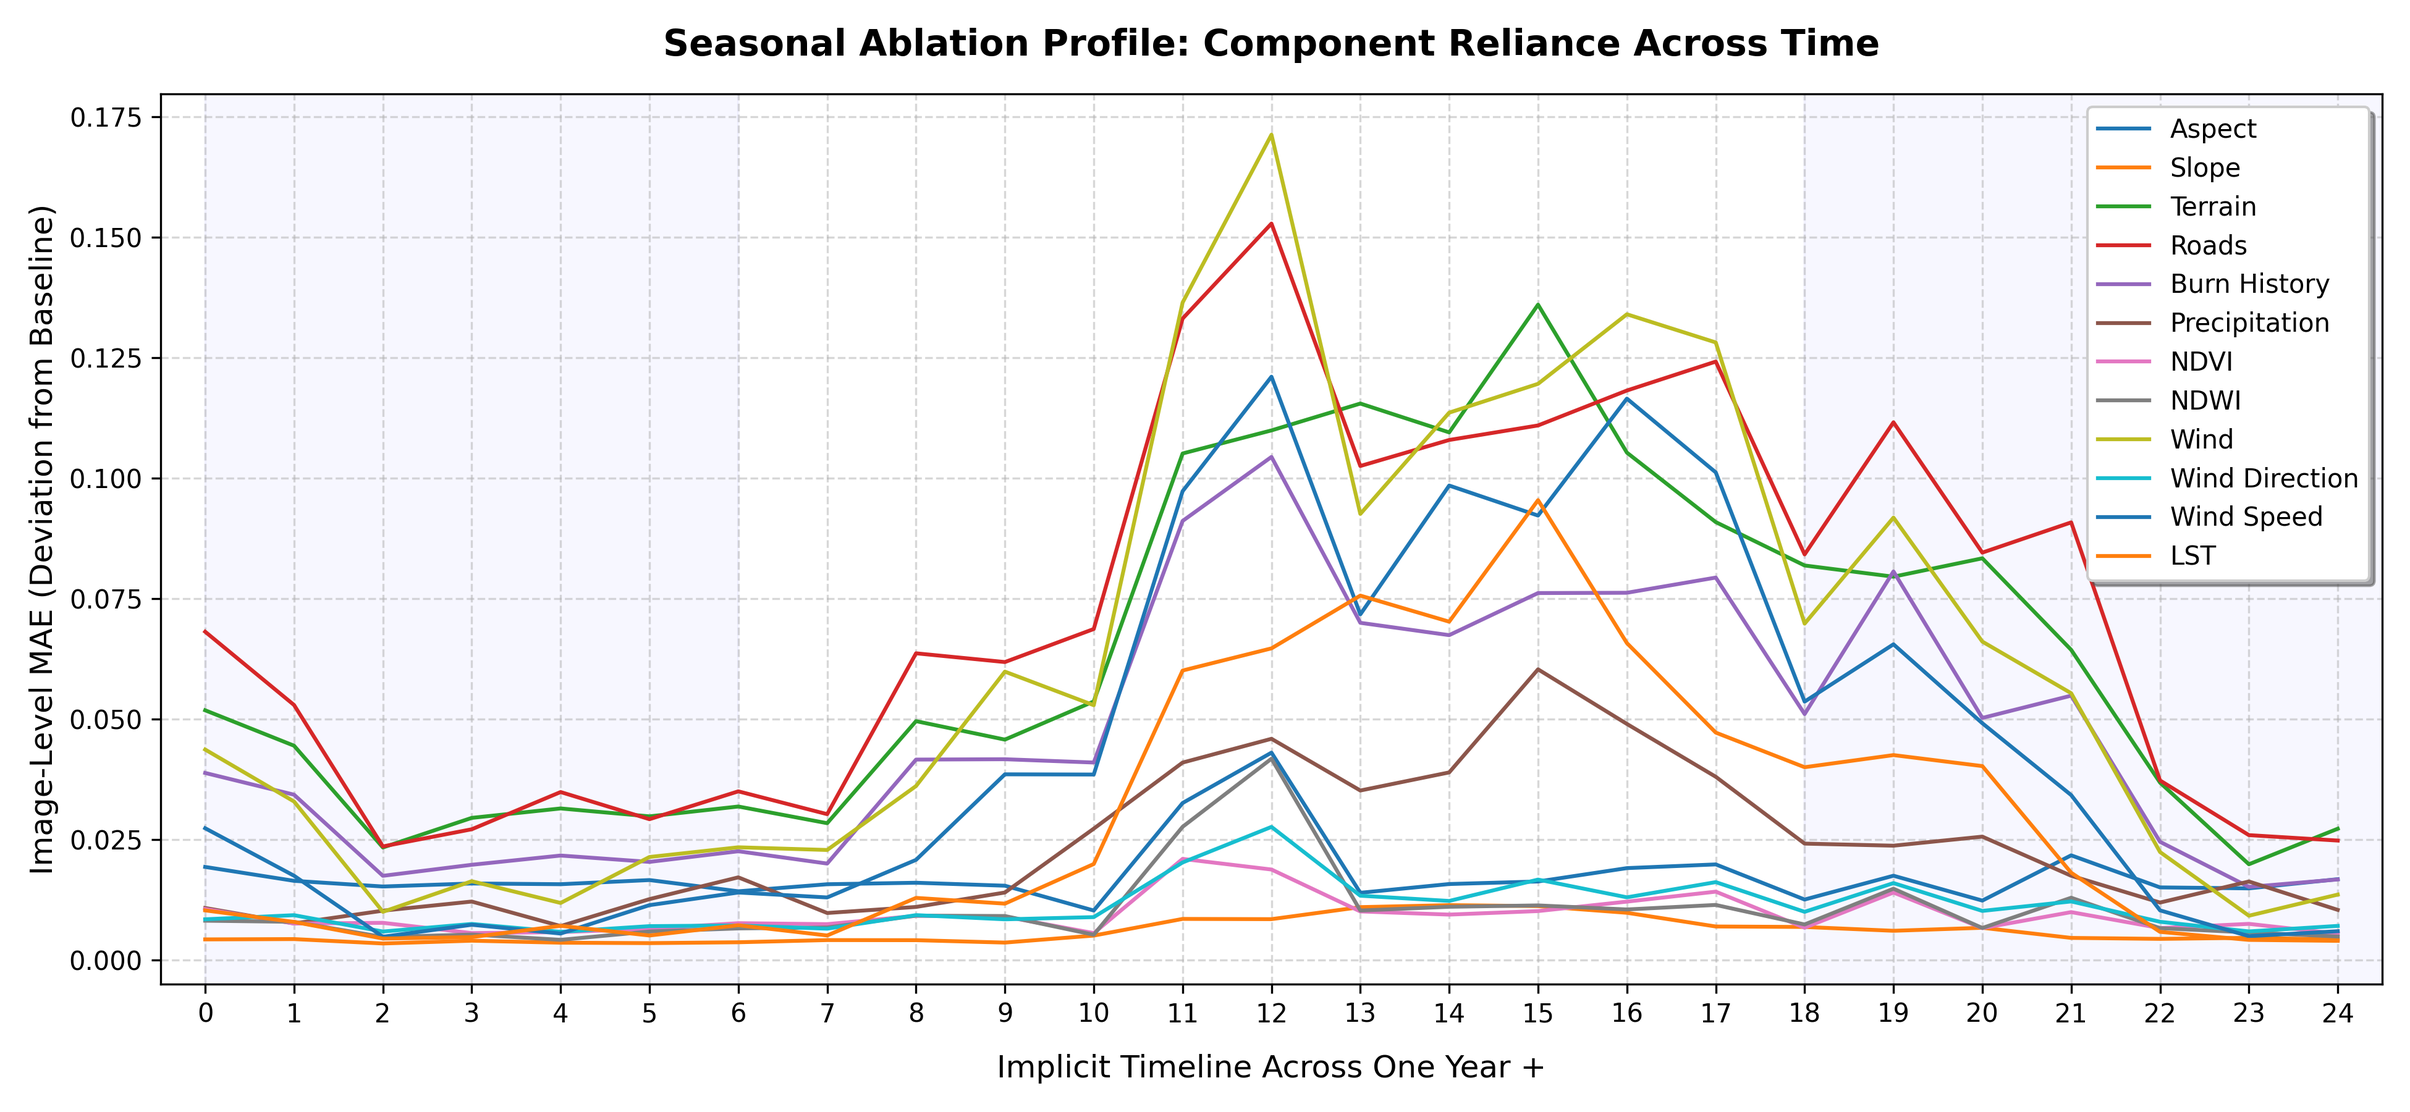
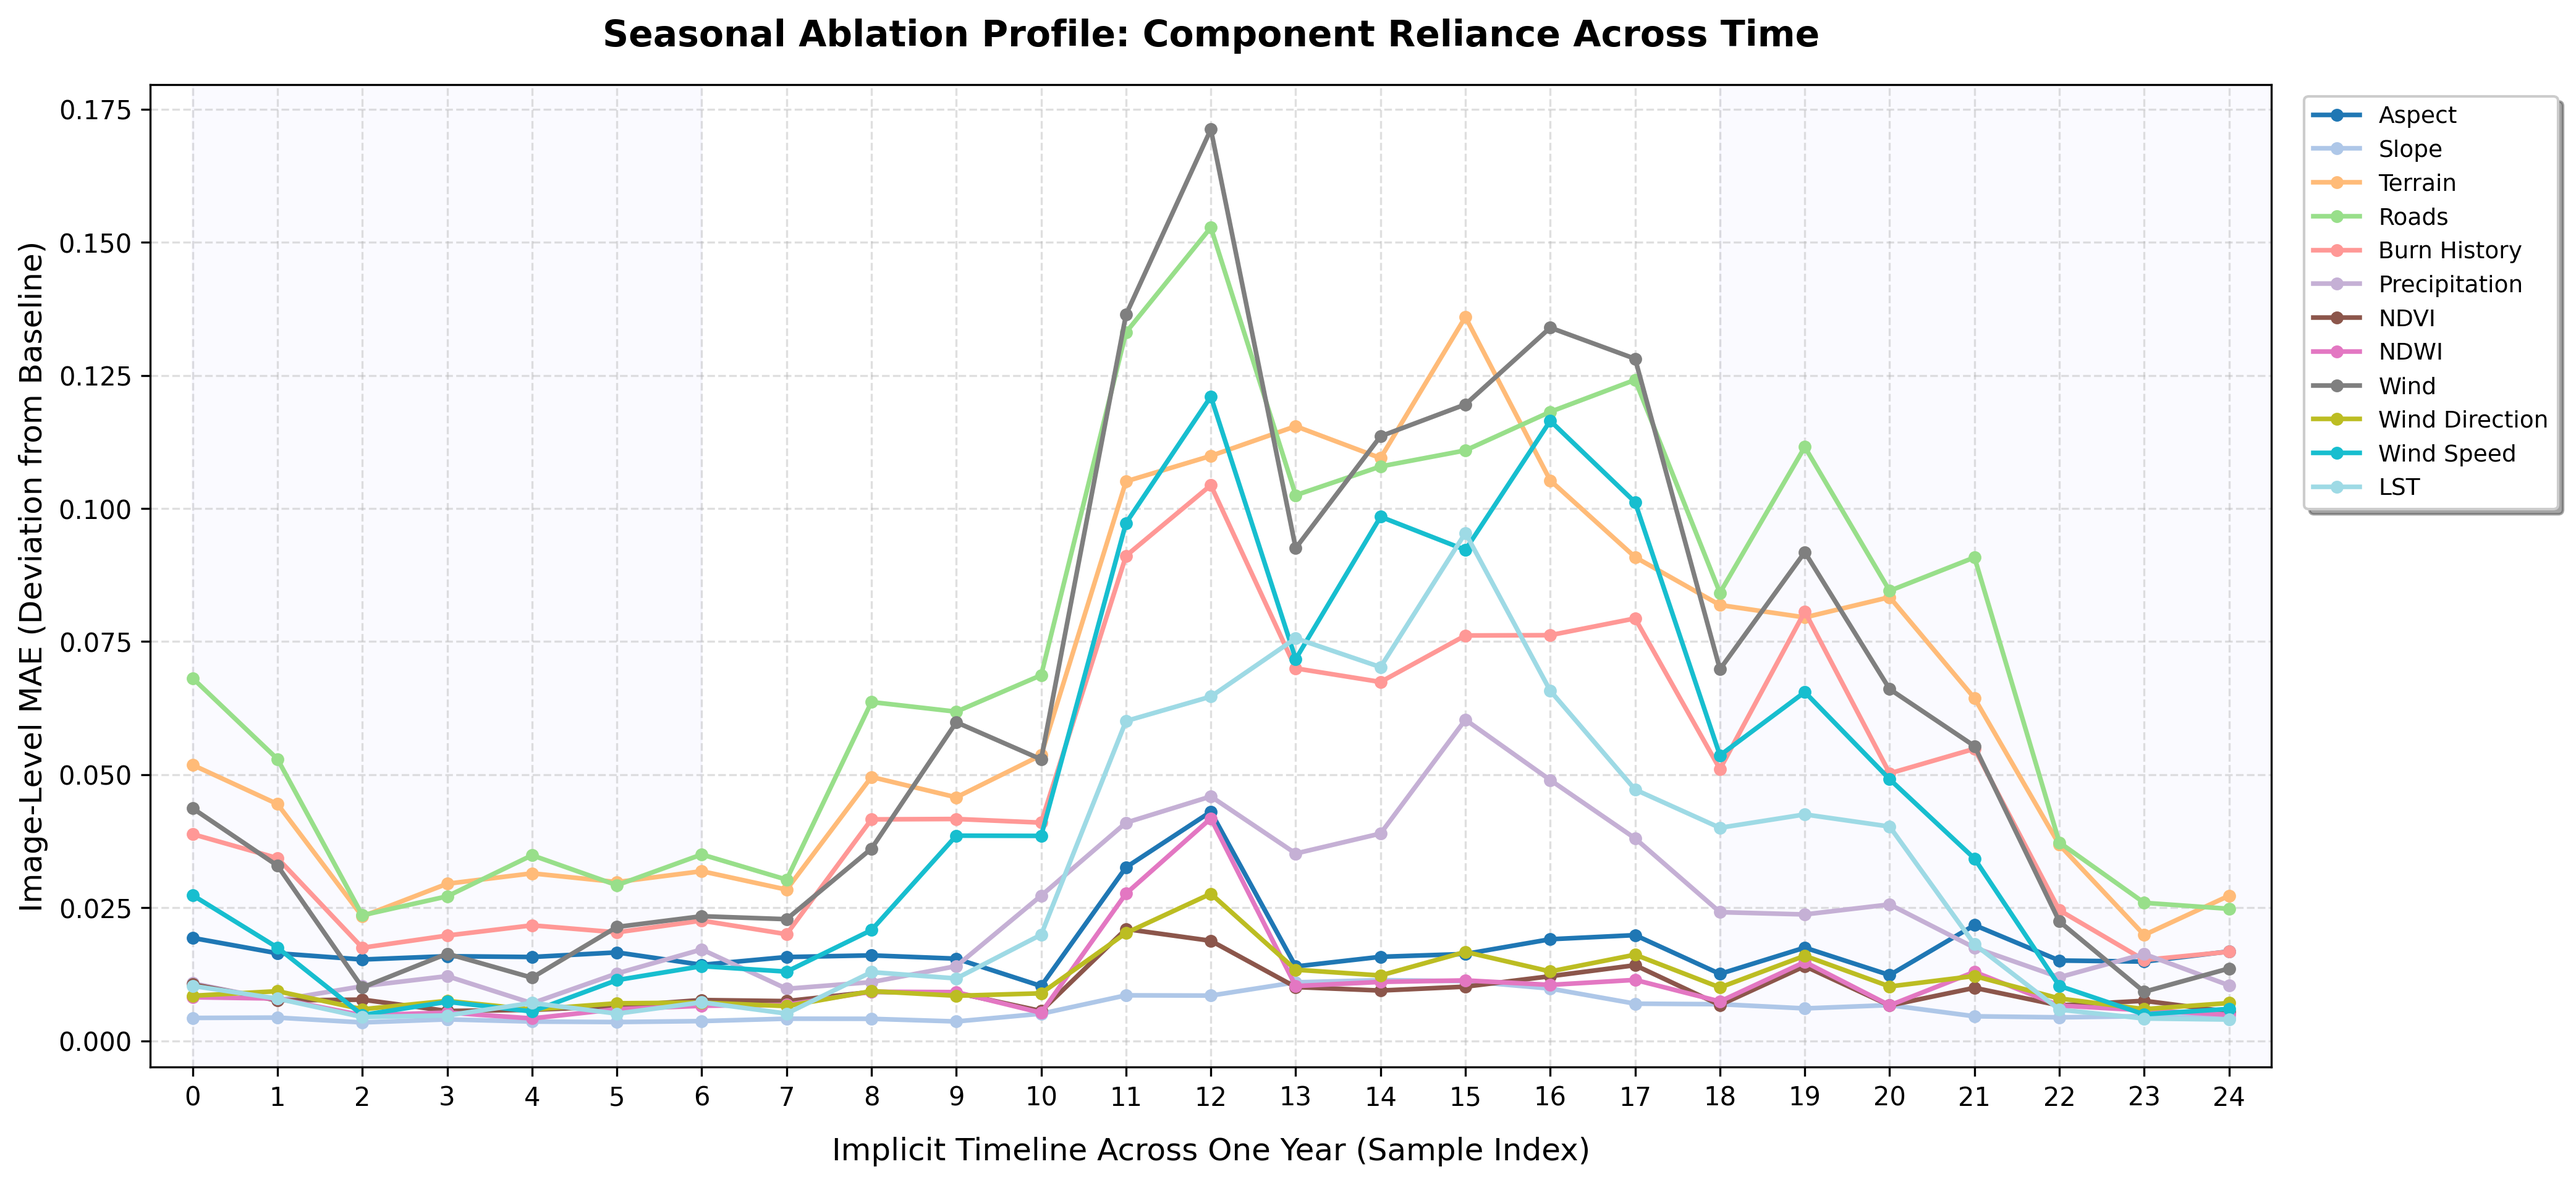
TSNE diagrams

diff --git a/exports/tsne/main.py b/exports/tsne/main.py
@@ -1,0 +1,310 @@
+"""
+Tracking vector
+"""
+
+# Internal
+from src.core.utils import load_config
+from src.models.vit.vit import STViT
+from scripts.dataset import SpatialTemporalDataset, skip_missing_collate_fn
+
+
+# External
+from sklearn.manifold import TSNE
+
+import torch
+import torch.nn as nn
+from torch.utils.data import DataLoader
+from pathlib import Path
+import torch.nn.functional as F
+from datetime import datetime
+import math
+import numpy as np
+import matplotlib.pyplot as plt
+
+# ----- CONFIG ----- #
+correction_logit = math.log(600)
+out_path = Path('exports', 'tsne')
+# ------------------ #
+
+# ---- Helper F ---- #
+def load_trained_model(cfg_model : nn.Module, cfg_data, model_path, device):
+    model = STViT(
+        num_dynamic_channels=cfg_model['num_dynamic_channels'],
+        num_static_channels=cfg_model['num_static_channels'] + cfg_model['num_single_dynamic_channels'],
+        num_timestamps_per_sample=cfg_data['temporal_extent']['sample_extent'],
+        patch_size=cfg_model['patch_size'],
+        embedding_dim=cfg_model['embedding_dim']
+    )
+    model.load_state_dict(torch.load(model_path, map_location=device))
+    return model.to(device)
+
+
+def evaluate_model_tsne(model, dataloader: DataLoader):
+    model.eval()
+
+    # This will hold a list of dictionaries, one for each timestamp
+    time_frames = []
+
+    with torch.no_grad():
+        for batch_idx, batch in enumerate(dataloader):
+            print(f'Processing test batch_idx {batch_idx + 1} / {len(dataloader)}')
+            if batch is None:
+                continue
+
+            static_x = batch['static'].to(device)
+            single_dynamic_x = batch['single_dynamic'].to(device)
+            dynamic_x = batch['dynamic'].to(device)
+            
+            # Read the timestamp for this specific frame
+            date_str = batch['meta_first_date'][0] 
+            date_obj = datetime.strptime(date_str, '%Y-%m-%d')
+
+            ## Predict
+            pred_map, x_2d = model(
+                x_static=static_x,
+                x_dynamic=dynamic_x,
+                x_single_dynamic=single_dynamic_x,
+                return_tokens = True
+            )
+
+            grid_h, grid_w = x_2d.shape[2], x_2d.shape[3]
+
+            # Adaptive pooling to match patch resolution
+            patch_preds = F.adaptive_avg_pool2d(pred_map, (grid_h, grid_w))
+            patch_probabilities = torch.sigmoid(patch_preds - correction_logit)
+
+            # --- PRESERVE STRUCTURES ---
+            # Keep both flattened (for t-SNE) and 2D spatial layouts (for geographic plotting)
+            # Embeddings: [39, 20, 256] -> flattened to [780, 256]
+            embeddings_spatial = x_2d.squeeze(0).permute(1, 2, 0).cpu().numpy()
+            embeddings_flat = embeddings_spatial.reshape(-1, 256)
+            
+            # Predictions: [39, 20] -> flattened to [780]
+            preds_spatial = patch_probabilities.squeeze(0).squeeze(0).cpu().numpy()
+            preds_flat = preds_spatial.reshape(-1)
+
+            # Package this specific time frame
+            frame_data = {
+                'date': date_obj,
+                'date_str': date_str,
+                'embeddings_flat': embeddings_flat,      # Shape: (780, 256)
+                'embeddings_spatial': embeddings_spatial, # Shape: (39, 20, 256)
+                'predictions_flat': preds_flat,          # Shape: (780,)
+                'predictions_spatial': preds_spatial      # Shape: (39, 20)
+            }
+            
+            time_frames.append(frame_data)
+
+    # Sort chronologically by date just in case the dataloader shuffled things
+    time_frames.sort(key=lambda x: x['date'])
+    
+    return time_frames
+
+# ----- Plot F ----- #
+def track_single_patch(time_frames, patch_idx, grid_h=39, grid_w=20, perplexity=30):
+    """
+    Tracks a single patch index across all available timeframes in an integrated vector space.
+    
+    Parameters:
+    -----------
+    time_frames : list of dict
+        The chronologically sorted list of dictionaries generated by evaluate_model_tsne.
+    patch_idx : int
+        The flattened index of the target patch to track (must be between 0 and (grid_h * grid_w) - 1).
+    grid_h : int, default=39
+        The height layout grid dimension.
+    grid_w : int, default=20
+        The width layout grid dimension.
+    perplexity : int, default=30
+        The perplexity hyperparameter for the t-SNE manifold fitting.
+    """
+    num_patches_per_day = grid_h * grid_w
+    if not (0 <= patch_idx < num_patches_per_day):
+        raise ValueError(f"patch_idx {patch_idx} is out of bounds for a {grid_h}x{grid_w} grid layout.")
+
+    # 1. Calculate 2D spatial matrix coordinates for reference text
+    row = patch_idx // grid_w
+    col = patch_idx % grid_w
+    
+    print(f"Isolating Patch Index {patch_idx} (Spatial Matrix Location: Row {row}, Col {col})")
+    print(f"Stacking data for global manifold reduction across {len(time_frames)} timeframes...")
+
+    # 2. Extract and pool ALL patches from ALL times to create a cohesive background space
+    all_embeddings = np.concatenate([frame['embeddings_flat'] for frame in time_frames], axis=0)
+    all_predictions = np.concatenate([frame['predictions_flat'] for frame in time_frames], axis=0)
+
+    # 3. Fit a global t-SNE manifold model
+    print("Fitting global t-SNE manifold... (This may take a moment depending on the timeline length)")
+    tsne = TSNE(n_components=2, perplexity=perplexity, init='pca', random_state=42)
+    global_2d = tsne.fit_transform(all_embeddings)
+
+    # 4. Extract the target patch's historical trajectory coordinates out of the pool
+    patch_history_2d = []
+    patch_predictions = []
+    patch_dates = []
+
+    for idx, frame in enumerate(time_frames):
+        # Calculate exactly where this patch falls in the stacked global array
+        global_pool_idx = (idx * num_patches_per_day) + patch_idx
+        
+        patch_history_2d.append(global_2d[global_pool_idx])
+        patch_predictions.append(frame['predictions_flat'][patch_idx])
+        patch_dates.append(frame['date_str'])
+
+    patch_history_2d = np.array(patch_history_2d)
+    patch_predictions = np.array(patch_predictions)
+
+    # 5. Plotting the visualization
+    plt.figure(figsize=(11, 9))
+    
+    # Draw a low-opacity global background context map using all collected patches
+    plt.scatter(
+        global_2d[:, 0], global_2d[:, 1], 
+        c=all_predictions, cmap='coolwarm', alpha=0.07, s=4, label='Vector Space Context'
+    )
+
+    # Draw sequential line segments connecting the chronological path steps
+    plt.plot(
+        patch_history_2d[:, 0], patch_history_2d[:, 1], 
+        color='black', linewidth=1.5, linestyle='-', alpha=0.6, zorder=2
+    )
+    
+    # Add small tracking directional arrows along the path
+    for i in range(len(patch_history_2d) - 1):
+        plt.annotate(
+            '', 
+            xy=(patch_history_2d[i+1, 0], patch_history_2d[i+1, 1]), 
+            xytext=(patch_history_2d[i, 0], patch_history_2d[i, 1]),
+            arrowprops=dict(arrowstyle="->", color="black", alpha=0.4, lw=1.5),
+            zorder=3
+        )
+
+    # Overlay the specific patch instances over time, colored by their prediction risk value
+    scatter = plt.scatter(
+        patch_history_2d[:, 0], patch_history_2d[:, 1], 
+        c=patch_predictions, cmap='YlOrRd', edgecolor='black', 
+        s=80, linewidths=1.2, zorder=4, label='Tracked Patch Timeline'
+    )
+
+    # Annotate chronological landmark tags (Start and End of Timeline)
+    plt.text(
+        patch_history_2d[0, 0], patch_history_2d[0, 1] + 1, 
+        f" START ({patch_dates[0]})", color='black', fontsize=10, fontweight='bold', zorder=5
+    )
+    plt.text(
+        patch_history_2d[-1, 0], patch_history_2d[-1, 1] + 1, 
+        f" END ({patch_dates[-1]})", color='black', fontsize=10, fontweight='bold', zorder=5
+    )
+
+    # Aesthetic Polish
+    plt.title(f"Temporal Vector Space Trajectory: Patch {patch_idx} (Row {row}, Col {col})", fontsize=14, pad=15)
+    plt.xlabel("t-SNE Coordinate 1", fontsize=11)
+    plt.ylabel("t-SNE Coordinate 2", fontsize=11)
+    plt.colorbar(scatter, label='Burn Risk Probability Value')
+    plt.legend(loc='upper left')
+    plt.grid(True, linestyle=':', alpha=0.5)
+    
+    plt.show()
+    
+    return patch_history_2d, patch_predictions
+
+
+def plot_global_vector_space(time_frames, perplexity=30, max_display_points=30000):
+    """
+    Plots all patches across all timeframes in a single global t-SNE manifold.
+    Every point is large, solid, and explicitly color-coded from Blue (Safe) to Red (High Risk).
+    """
+    print(f"Stacking data for global manifold reduction across {len(time_frames)} timeframes...")
+
+    # 1. Pool ALL patches across all timeframes
+    all_embeddings = np.concatenate([frame['embeddings_flat'] for frame in time_frames], axis=0)
+    all_predictions = np.concatenate([frame['predictions_flat'] for frame in time_frames], axis=0)
+    
+    total_points = all_embeddings.shape[0]
+    print(f"Total patch points collected: {total_points}")
+
+    # 2. Fit the global t-SNE manifold
+    print("Fitting global t-SNE manifold...")
+    tsne = TSNE(n_components=2, perplexity=perplexity, init='pca', random_state=42)
+    global_2d = tsne.fit_transform(all_embeddings)
+
+    # 3. Subsample to prevent points from completely piling on top of each other
+    if total_points > max_display_points:
+        print(f"Subsampling display down to {max_display_points} points for visual space clarity...")
+        indices = np.random.choice(total_points, max_display_points, replace=False)
+        plot_2d = global_2d[indices]
+        plot_preds = all_predictions[indices]
+    else:
+        plot_2d = global_2d
+        plot_preds = all_predictions
+
+    # 4. Generate the Visualization
+    plt.figure(figsize=(12, 10), facecolor='white')
+    
+    # Render points with larger size and near-solid opacity so colors are perfectly distinct
+    scatter = plt.scatter(
+        plot_2d[:, 0], plot_2d[:, 1], 
+        c=plot_preds, 
+        cmap='jet',         # Blue (0% Risk) -> Green -> Yellow -> Solid Red (100% Risk)
+        alpha=0.95,         # Solid colors that do not fade out
+        s=5.0,             # Much larger point footprint so color is instantly readable
+        edgecolors='none'   
+    )
+
+    # 5. Aesthetic and Colorbar adjustments
+    plt.title("Global Mapping of STViT Latent Feature Space", fontsize=14, pad=15, fontweight='bold')
+    plt.xlabel("t-SNE Coordinate 1", fontsize=11)
+    plt.ylabel("t-SNE Coordinate 2", fontsize=11)
+    
+    # Custom Colorbar Setup
+    cbar = plt.colorbar(scatter, pad=0.02, extend='both')
+    cbar.set_label('Burn Risk Probability Scale', fontsize=12, labelpad=10)
+    
+    # Set explicit percentage labels on the colorbar
+    ticks = cbar.get_ticks()
+    cbar.set_ticks(ticks)
+    cbar.ax.set_yticklabels([f'{x*100:.0f}% Risk' for x in ticks])
+
+    plt.grid(True, linestyle=':', alpha=0.5, color='gray')
+    plt.tight_layout()
+    plt.show()
+
+    return global_2d, all_predictions
+
+# ------ MAIN ------ #
+if __name__ == '__main__':
+    # Load cfg
+    exp_name = 't010_1' # 't009_1'
+
+    cfg_file = 'config_' + exp_name + '.yaml'
+    cfg_path = Path('files', 'configs', cfg_file)
+    cfg = load_config(cfg_path)
+    cfg_model = cfg['model']
+    cfg_data = cfg['data']
+
+    # Load model path
+    model_path = Path('files', 'experiments', exp_name, f'{exp_name}_model_best.pt')
+
+    # Device
+    device = 'mps'
+
+    # Select baseline model
+    model = load_trained_model(
+        cfg_model=cfg_model,
+        cfg_data=cfg_data,
+        model_path=model_path,
+        device = device
+    )
+
+    # Data
+    dataset = SpatialTemporalDataset(cfg_path, split_type="val", benchmark_mode=True)
+    dataloader = DataLoader(
+        dataset, batch_size=1, shuffle=False, num_workers=1,
+        pin_memory=False, collate_fn=skip_missing_collate_fn
+    )
+
+
+    time_frames = evaluate_model_tsne(model = model, dataloader=dataloader)
+
+    track_single_patch(time_frames, patch_idx= 330)
+    #plot_global_vector_space(time_frames=time_frames)

diff --git a/exports/ablation/main.py b/exports/ablation/main.py
@@ -149,8 +149,7 @@ def plot_implicit_seasonal_trend(all_predictions, out_path=Path('.')):
     plt.tight_layout()
     
     fig_name = 'seasonal_implicit_trend.png'
-    out_file = Path(out_path) / fig_name
-    out_file.parent.mkdir(parents=True, exist_ok=True) # Ensure the directory exists
+    out_file = out_path / fig_name
     
     plt.savefig(out_file, dpi=300, bbox_inches='tight')
     print(f"Successfully generated unique-colored seasonal chart: '{out_file}'")
@@ -230,7 +229,7 @@ def plot_ablation_metrics(all_predictions):
 if __name__ == '__main__':
     
     # Load cfg
-    exp_name = 't009_4' # 't009_1'
+    exp_name = 't009_1' # 't009_1'
 
     cfg_file = 'config_' + exp_name + '.yaml'
     cfg_path = Path('files', 'configs', cfg_file)
@@ -294,4 +293,4 @@ if __name__ == '__main__':
 
 
     plot_ablation_metrics(all_predictions)
-    plot_implicit_seasonal_trend(all_predictions)
+    plot_implicit_seasonal_trend(all_predictions, out_path=out_path)

diff --git a/src/models/vit/vit.py b/src/models/vit/vit.py
@@ -229,10 +229,11 @@ class STViT(nn.Module):
         # 5. Execute Progressive Resolution Upsampling Decoder Path
         pred_map = self.decoder(x_2d)
 
+        if return_tokens == True:
+            return pred_map, x_2d
+
         # [ORIGINAL] Slice off padding adjustments back to user raw target specifications
         pred_map = pred_map[:, 0:1, :orig_h, :orig_w]
         
-        if return_tokens == True:
-            return pred_map, x_2d
-        else:
-            return pred_map
+
+        return pred_map
